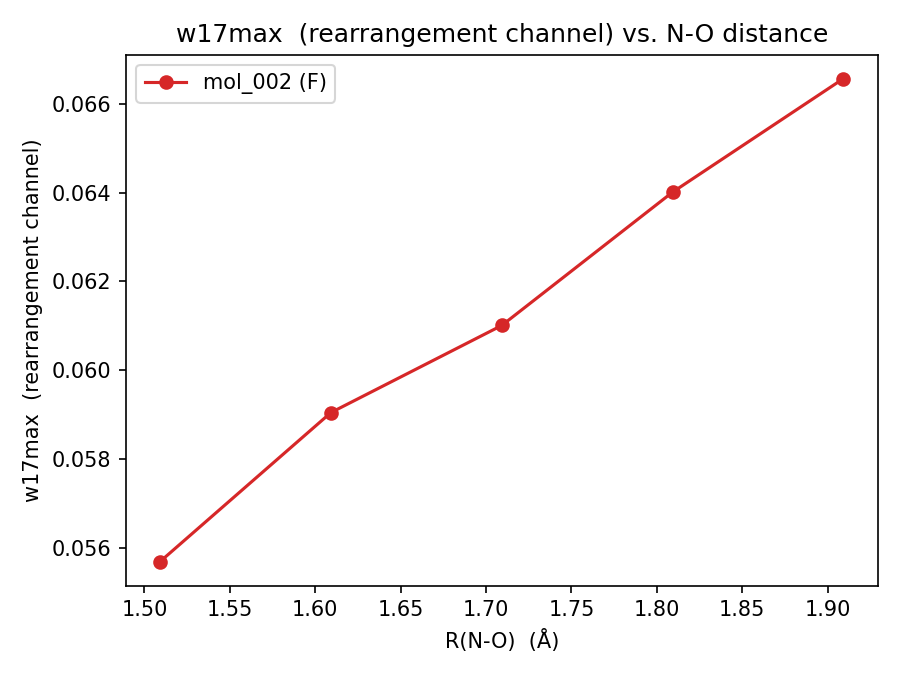
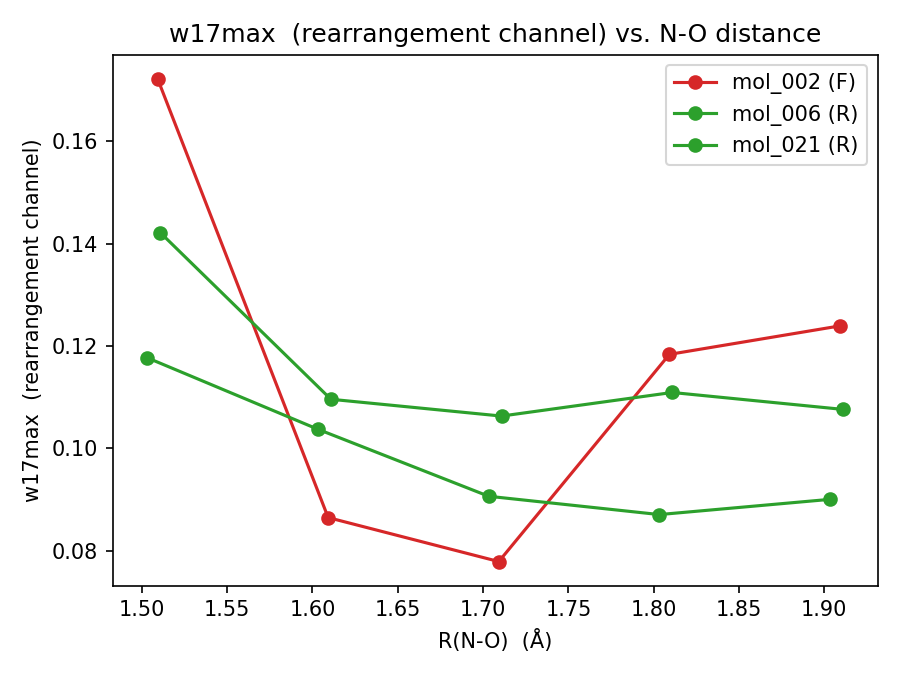
full plots (after removing threshold)

diff --git a/beckmann/ts_ml/neb.py b/beckmann/ts_ml/neb.py
@@ -81,9 +81,19 @@ def build_run_dict(reactant_xyz: Path, product_xyz: Path) -> dict:
             "type": "neb",
             "climb": True,
         },
+        # dump=False on both "opt" and "tsopt": PySisyphus defaults dump=True for
+        # COS/tsopt optimizers, which writes a full geometry snapshot (cycle_NNN.trj,
+        # image_N.trj, current/final_geometries.trj, ts_optimization.trj, ...) EVERY
+        # cycle -- ~90 files per run, none of which any code here reads (only
+        # ts_final_hessian.h5 is ever parsed, by verify_ts_ml below). Doesn't affect
+        # ts_final_geometry.xyz/ts_final_hessian.h5 (written unconditionally at the
+        # end via do_final_hessian, not gated by dump) or the IRC trajectories/logs
+        # (no dump toggle exists for those, and they're the actual reactant/product
+        # connectivity evidence -- keep those).
         "opt": {
             "type": "lbfgs",
             "align": True,
+            "dump": False,
         },
         "tsopt": {
             "type": "rsirfo",
@@ -92,6 +102,7 @@ def build_run_dict(reactant_xyz: Path, product_xyz: Path) -> dict:
                                   # AIMNet2's Hessian is cheap; first attempt without
                                   # this left 2 spurious small extra negative modes
                                   # (-97, -9 cm^-1) alongside the real one (-510 cm^-1).
+            "dump": False,
         },
         "irc": {
             "type": "eulerpc",

diff --git a/scripts/analysis/summarize_descriptors.py b/scripts/analysis/summarize_descriptors.py
@@ -151,8 +151,9 @@ def main() -> None:
 
     table = "\n".join(lines)
     summary_path = ANALYSIS_DIR / "descriptor_summary.md"
+    mol_ids = ", ".join(f"mol_{mol.split('_')[1]}" for mol in mols)
     summary_path.write_text(
-        "# Descriptor summary (mol_002, 006, 020, 021)\n\n"
+        f"# Descriptor summary ({mol_ids})\n\n"
         "d/dR = least-squares slope over the 5-point N-O scan. "
         "'wCNmax extremum' = interior local min/max in the wCNmax(R) series "
         "(the paper's central signature -- Table 2 reports this only for the one "

diff --git a/data/output/analysis/descriptor_summary.md b/data/output/analysis/descriptor_summary.md
@@ -1,13 +1,9 @@
-# Descriptor summary (mol_002, 006, 021)
-
-mol_020 omitted from this run -- its relaxed scan hit the step cap on scan point 5 without converging (oscillating ring pucker) and the job crashed after the NBO7 single-point; see JOB_ISSUES.md in data/output/dft_opt/. Will be added back once that scan is fixed and rerun.
-
-Lambda/log_lambda are left undefined (n/a) rather than floored when w17max isn't found anywhere in the LUMO..LUMO+0.4 a.u. virtual-orbital window (mol_006 and mol_021, all stages) -- an earlier version of this pipeline substituted a 1e-3 floor for the missing w17max, which inflated Lambda into a division-floor artifact (values of 50-100) rather than a real ratio. See beckmann/dft/parse_cmo.py docstring.
+# Descriptor summary (mol_002, mol_006, mol_021)
 
 d/dR = least-squares slope over the 5-point N-O scan. 'wCNmax extremum' = interior local min/max in the wCNmax(R) series (the paper's central signature -- Table 2 reports this only for the one rearranging reference compound, none of the three fragmenting ones).
 
 | mol | exp | d(Ψ)/dR | d(log₁₀Λ)/dR | d(wCNmax)/dR | d(w17max)/dR | d(w78max)/dR | wCNmax extremum |
 |---|---|---|---|---|---|---|---|
-| mol_002_E | F | 2.337 | 0.673 | 0.020 | 0.027 | 0.154 | no |
-| mol_006_E | R | 2.426 | n/a | 0.018 | n/a | -0.113 | no |
-| mol_021_E | R | 2.001 | n/a | 0.027 | n/a | -0.147 | yes @ R=1.7033 (MO 53, epsilon=-0.0016 a.u.) |
+| mol_002_E | F | 2.337 | 0.200 | 0.020 | -0.065 | 0.012 | no |
+| mol_006_E | R | 2.426 | 0.143 | 0.018 | -0.068 | -0.020 | no |
+| mol_021_E | R | 2.001 | -0.256 | 0.027 | -0.072 | -0.109 | yes @ R=1.7033 (MO 53, epsilon=-0.0016 a.u.) |
